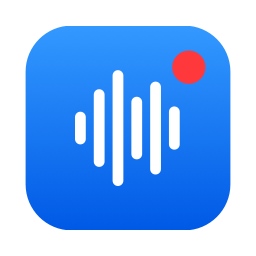
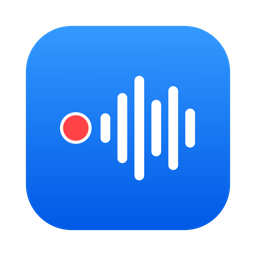
0.12.0 : Claude range les appels en groupes, piles par mois, Exporter, nouvelle icône

diff --git a/index.html b/index.html
@@ -6,7 +6,7 @@
 <meta name="color-scheme" content="light only">
 <title>CallRecorder</title>
 <meta name="description" content="CallRecorder enregistre vos appels Zoom, Teams, Google Meet, FaceTime et WhatsApp et les transcrit sur votre Mac.">
-<link rel="icon" href="img/icone.png?v=2">
+<link rel="icon" href="img/icone.png?v=3">
 <link rel="preconnect" href="https://fonts.googleapis.com">
 <link rel="preconnect" href="https://fonts.gstatic.com" crossorigin>
 <link rel="stylesheet" href="https://fonts.googleapis.com/css2?family=Host+Grotesk:wght@400;500&display=swap">
@@ -372,7 +372,7 @@
     </div>
     <h1>Vos appels, dans Claude</h1>
     <p class="lead">Donnez à Claude et aux autres assistants l'accès au contenu de vos appels, quel que soit l'outil.</p>
-    <a class="button hero" href="#installation"><img class="button-icon" src="img/icone.png?v=2" alt="">Installer CallRecorder</a>
+    <a class="button hero" href="#installation"><img class="button-icon" src="img/icone.png?v=3" alt="">Installer CallRecorder</a>
     <p class="req" data-compat>macOS 15 ou plus récent · Mac M1 ou plus récent</p>
   </div>
 
@@ -388,7 +388,7 @@
       <div class="bar"><i></i><i></i><i></i><span>Claude</span></div>
       <div class="body">
         <div class="ask">Au point hebdo, on a dit que les clients trouvent l'onboarding trop long. C'est vraiment ce qu'ils disent dans mes appels de ce mois-ci ?</div>
-        <div class="tool"><img src="img/icone.png?v=2" alt="">12 appels lus : le point hebdo et 11 appels clients d'octobre</div>
+        <div class="tool"><img src="img/icone.png?v=3" alt="">12 appels lus : le point hebdo et 11 appels clients d'octobre</div>
         <div class="answer">
           <img src="img/logos/claude.png" alt="">
           <div>
@@ -409,7 +409,7 @@
       <div class="bar"><i></i><i></i><i></i><span>Claude</span></div>
       <div class="body">
         <div class="ask">Je prépare le déroulé du mariage. Qu'est-ce que la famille de Julien m'a dit au téléphone dont je devrais tenir compte, même en passant ?</div>
-        <div class="tool"><img src="img/icone.png?v=2" alt="">4 appels lus : Catherine, Léa, Thomas et le traiteur</div>
+        <div class="tool"><img src="img/icone.png?v=3" alt="">4 appels lus : Catherine, Léa, Thomas et le traiteur</div>
         <div class="answer">
           <img src="img/logos/claude.png" alt="">
           <div>
@@ -430,7 +430,7 @@
       <div class="bar"><i></i><i></i><i></i><span>Claude</span></div>
       <div class="body">
         <div class="ask">Qu'est-ce que le syndic nous a promis au téléphone depuis début octobre, et qu'est-ce qui n'est toujours pas fait ?</div>
-        <div class="tool"><img src="img/icone.png?v=2" alt="">8 appels lus : le syndic, le conseil syndical, Bati-Façade, Mme Perrin</div>
+        <div class="tool"><img src="img/icone.png?v=3" alt="">8 appels lus : le syndic, le conseil syndical, Bati-Façade, Mme Perrin</div>
         <div class="answer">
           <img src="img/logos/claude.png" alt="">
           <div>
@@ -562,11 +562,15 @@
         </div></details>
         <details class="row"><summary>Retranscrire, ou améliorer avec Claude</summary><div class="answer">
           <p>Ouvrez le menu des transcriptions de l'appel, en haut à droite (<b>v1 · Transcription</b>). <b>Nouvelle transcription</b> fait réécouter l'appel. <b>Améliorer avec Claude</b> fait relire la dernière transcription par Claude, avec l'écran de l'appel, votre agenda et vos e-mails. Chaque passage est une nouvelle version, et les précédentes restent dans ce menu.</p>
-          <img src="img/guides/fenetre-appel.png?v=2" loading="lazy" alt="Le haut d'un appel : Copier, Télécharger et le menu des transcriptions, puis l'enregistrement.">
+          <img src="img/guides/fenetre-appel.png?v=2" loading="lazy" alt="Le haut d'un appel : Copier, Exporter et le menu des transcriptions, puis l'enregistrement.">
+        </div></details>
+        <details class="row"><summary>Ranger vos appels en groupes</summary><div class="answer">
+          <p>Dans les <b>Réglages</b>, ouvrez <b>Groupes</b>, sous <b>Appels enregistrés</b>. Un groupe réunit des appels qui vont ensemble&nbsp;: un client, un recrutement, le perso. Glissez-y des appels depuis la liste. Chaque groupe montre ses 5 derniers appels&nbsp;; les plus anciens s'empilent par mois, et un clic sur une pile la déplie. Le chevron au bout du titre replie tout le groupe.</p>
+          <p>Donnez un sous-titre à un groupe (menu <b>⋯</b> › <b>Ajouter un sous-titre</b>) pour dire ce qu'il rassemble, par exemple «&nbsp;Refonte de la boutique en ligne, du devis à la mise en ligne&nbsp;». Après chaque appel, Claude s'en sert comme consigne&nbsp;: quand il est sûr, il range l'appel dans le groupe qui lui correspond, et une petite icône Claude le signale, avec sa raison au survol. Il ne touche jamais à un appel que vous avez déjà rangé, et ne voit pas les groupes gardés hors des IA.</p>
         </div></details>
         <details class="row"><summary>Copier ou exporter une transcription</summary><div class="answer">
-          <p>Dans la fenêtre de l'appel, <b>Copier</b> (⇧⌘C) met toute la transcription dans le presse-papiers. <b>Télécharger</b> l'enregistre en texte, Word, Markdown ou sous-titres. Les transcriptions sont aussi dans le dossier CallRecordings de votre dossier personnel, en Markdown.</p>
-          <img src="img/guides/fenetre-appel.png?v=2" loading="lazy" alt="Le haut de la fenêtre d'un appel : Copier, et le menu Télécharger ouvert sur ses formats, texte, Word, Markdown et sous-titres.">
+          <p>Dans la fenêtre de l'appel, <b>Copier</b> (⇧⌘C) met toute la transcription dans le presse-papiers. <b>Exporter</b> l'enregistre en texte, Word, Markdown ou sous-titres (aussi dans Fichier › Exporter la transcription). Les transcriptions sont aussi dans le dossier CallRecordings de votre dossier personnel, en Markdown.</p>
+          <img src="img/guides/fenetre-appel.png?v=2" loading="lazy" alt="Le haut de la fenêtre d'un appel : Copier, et le menu Exporter ouvert sur ses formats, texte, Word, Markdown et sous-titres.">
         </div></details>
         <details class="row"><summary>Héberger vos appels en ligne (Google Drive, iCloud, Dropbox)</summary><div class="answer">
           <p>Par défaut, vos appels sont rangés dans le dossier CallRecordings de votre Mac. Placez ce dossier dans Google Drive, iCloud Drive ou Dropbox : il est alors hébergé en ligne, sauvegardé si votre Mac se perd, et vous retrouvez vos transcriptions sur votre téléphone et vos autres ordinateurs. Pas de compte CallRecorder : c'est votre propre espace en ligne.</p>
@@ -637,7 +641,8 @@
         <p>CallRecorder vous propose chaque nouvelle version. Pour vérifier vous-même : Réglages &gt; Général &gt; Rechercher une mise à jour.</p>
       </div>
       <div class="group" style="margin-top:56px">
-        <div class="row version"><div class="num">0.11.0<span class="latest">Dernière</span><small>30 octobre 2026</small></div><div><p>Copiez vos appels dans Google Drive, iCloud Drive ou un autre dossier, tous ou seulement certains groupes&nbsp;: Réglages › Outils et intégrations › Autres outils. Claude ou ChatGPT avec leur connecteur Google Drive, Zapier ou un script les y retrouvent, avec un index et un mode d'emploi. Les groupes gardés hors des IA ne sont jamais copiés.</p><a class="thumb" href="img/versions/0.11.0.png"><img src="img/versions/0.11.0.png" loading="lazy" alt="Réglages › Autres outils de la 0.11.0 : ajouter une copie des appels dans un dossier en ligne, et ce qu'il y a dans une copie"></a></div></div>
+        <div class="row version"><div class="num">0.12.0<span class="latest">Dernière</span><small>30 octobre 2026</small></div><div><p>Claude range chaque appel dans le bon groupe, en suivant le sous-titre de vos groupes&nbsp;; un groupe gardé hors des IA ne lui est jamais montré. Les groupes montrent leurs 5 derniers appels, les plus anciens en piles par mois, et se replient d'un clic. Notes dictées avec fn + D. Icônes revues, dont celle de l'app&nbsp;; <b>Télécharger</b> devient <b>Exporter</b>. Un enregistrement raté ne tourne plus sans fin, et une piste muette ne bloque plus la transcription.</p></div></div>
+        <div class="row version"><div class="num">0.11.0<small>30 octobre 2026</small></div><div><p>Copiez vos appels dans Google Drive, iCloud Drive ou un autre dossier, tous ou seulement certains groupes&nbsp;: Réglages › Outils et intégrations › Autres outils. Claude ou ChatGPT avec leur connecteur Google Drive, Zapier ou un script les y retrouvent, avec un index et un mode d'emploi. Les groupes gardés hors des IA ne sont jamais copiés.</p><a class="thumb" href="img/versions/0.11.0.png"><img src="img/versions/0.11.0.png" loading="lazy" alt="Réglages › Autres outils de la 0.11.0 : ajouter une copie des appels dans un dossier en ligne, et ce qu'il y a dans une copie"></a></div></div>
         <div class="row version"><div class="num">0.10.1<small>30 octobre 2026</small></div><div><p>Les mises à jour se trouvent maintenant dans Réglages › Général&nbsp;: la version installée, Rechercher une mise à jour, et Installer… quand une nouvelle version attend. Une étiquette «&nbsp;Mise à jour&nbsp;» au bout du bouton Réglages le signale.</p><a class="thumb" href="img/versions/0.10.1.png"><img src="img/versions/0.10.1.png" loading="lazy" alt="Réglages › Général de la 0.10.1 : la ligne Version, l'étiquette Mise à jour et le bouton Installer…"></a></div></div>
         <div class="row version"><div class="num">0.10.0<small>30 octobre 2026</small></div><div><p>En réunion, chaque voix a désormais son nom et sa couleur&nbsp;: «&nbsp;Voix 1&nbsp;», «&nbsp;Voix 2&nbsp;»… CallRecorder les distingue selon l'endroit d'où vient le son. Vos appels peuvent aussi vivre dans le dossier de votre choix, Google Drive ou iCloud par exemple&nbsp;: Réglages › Général › Dossier des appels › Changer…</p><a class="thumb" href="img/versions/0.10.0.png"><img src="img/versions/0.10.0.png" loading="lazy" alt="Réglages › Général de la 0.10.0 : le dossier des appels dans Google Drive"></a></div></div>
         <div class="row version"><div class="num">0.9.0<small>29 octobre 2026</small></div><div><p>Enregistrez vos réunions en face à face&nbsp;: un clic sur «&nbsp;Enregistrer une réunion&nbsp;», et la conversation est transcrite comme un appel. Un clic sur l'icône de la barre des menus ouvre vos appels. La transcription est prête quelques secondes après la fin d'un appel, chaque passage dans sa langue.</p><a class="thumb" href="img/versions/0.9.0.png"><img src="img/versions/0.9.0.png" loading="lazy" alt="La fenêtre Appels de la 0.9.0 : Enregistrer une réunion au-dessus des Réglages"></a></div></div>
